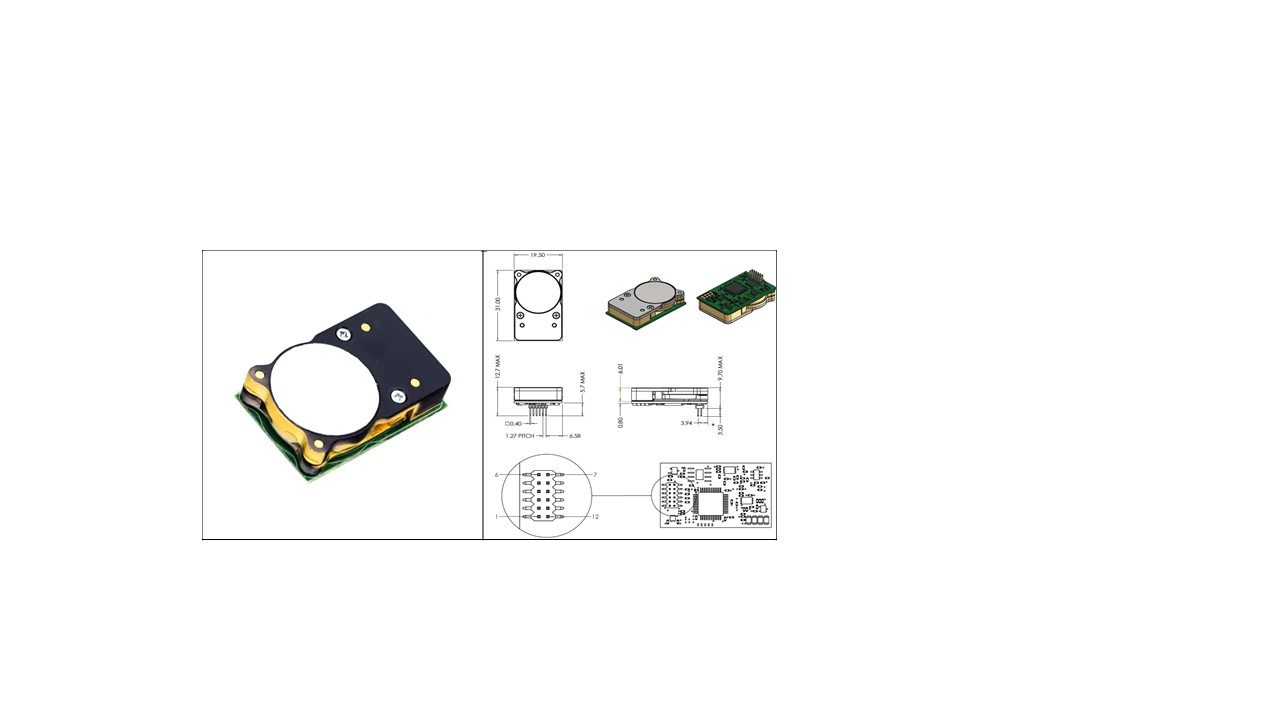
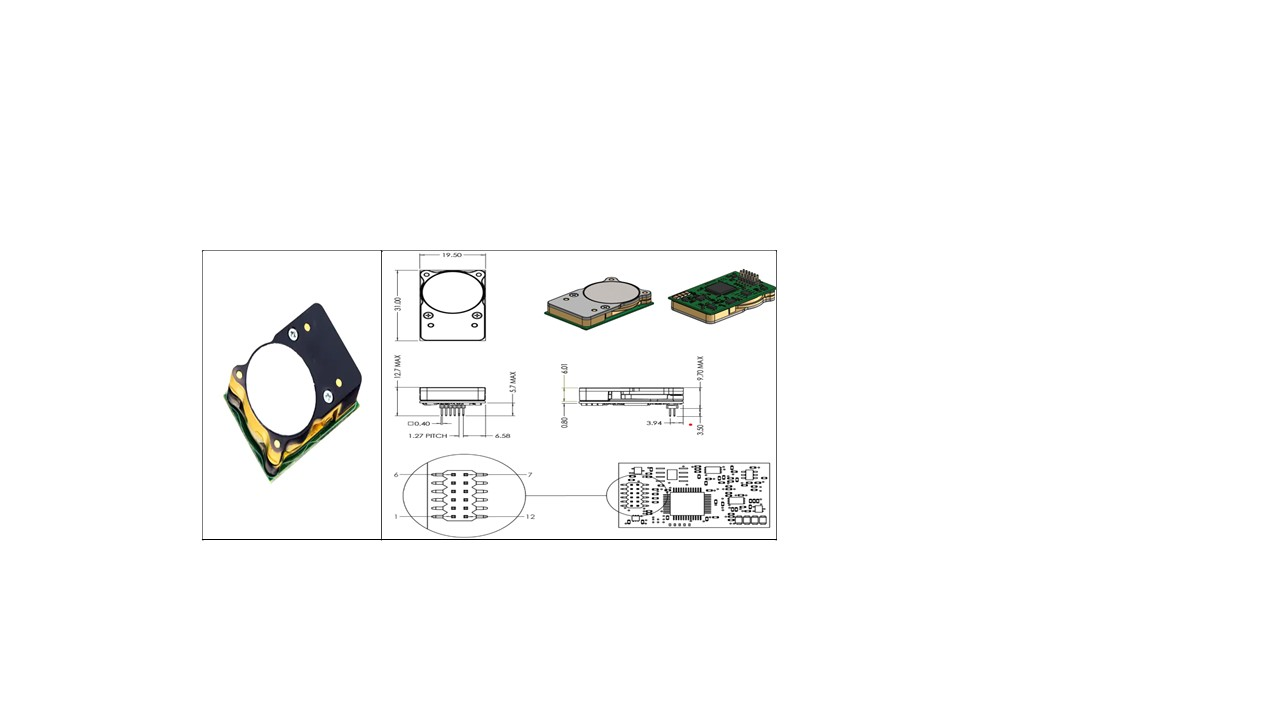
GitBook: [#247] No subject

Changed region(s): [[0.1562, 0.3361, 0.625, 0.6722], [0.3125, 0.6417, 0.625, 0.7333]]

diff --git a/product-document/gss/cozir-lp2.md b/product-document/gss/cozir-lp2.md
@@ -16,14 +16,16 @@
 | 센서 내부      | Solid-State, 가열된 필라멘트 없음                                                                   |
 | 통신 방식      | UART 또는 I²C                                                                                |
 | 전원 전압      | 3.25-5.5V                                                                                  |
-| 전력 소비량    | 3.5mW                                                                                      |
+| 전력 소비량     | 3.5mW                                                                                      |
 | 센서 치수 및 무게 | <p>L x W x H(31mm x 19.5mm x 8.7mm)<br>Weight(2.5g)</p>                                    |
 | 센서 내구성     | 진동 및 충격에 강하고 비가열성                                                                          |
 | 센서 교정      | 자동 교정 기능 내장                                                                                |
 | 센서 수명      | 15년                                                                                        |
-| 센서 활용      | <p>IAQ(실내공기질)<br>HVAC(공기조화기술)<br>BMS(건물 관리 시스템)<br>계측, 농업, 자동차, 항공우주</p>                   |
+| 센서 적ㅛ      | <p>IAQ(실내공기질)<br>HVAC(공기조화기술)<br>BMS(건물 관리 시스템)<br>계측, 농업, 자동차, 항공우주</p>                   |
 
 #### 3)제품 크기
+
+![](<../../.gitbook/assets/센서 그림 (1).jpg>)
 
 #### 4)센서 관련 문서
 
@@ -99,7 +101,7 @@ void loop(){
 }
 ```
 
-![Arduino Due](<../../.gitbook/assets/uno serial monitor.jpg>)
+![Arduino Due](broken-reference)
 
 Z:디지털 필터링 후 CO₂ 농도
 
